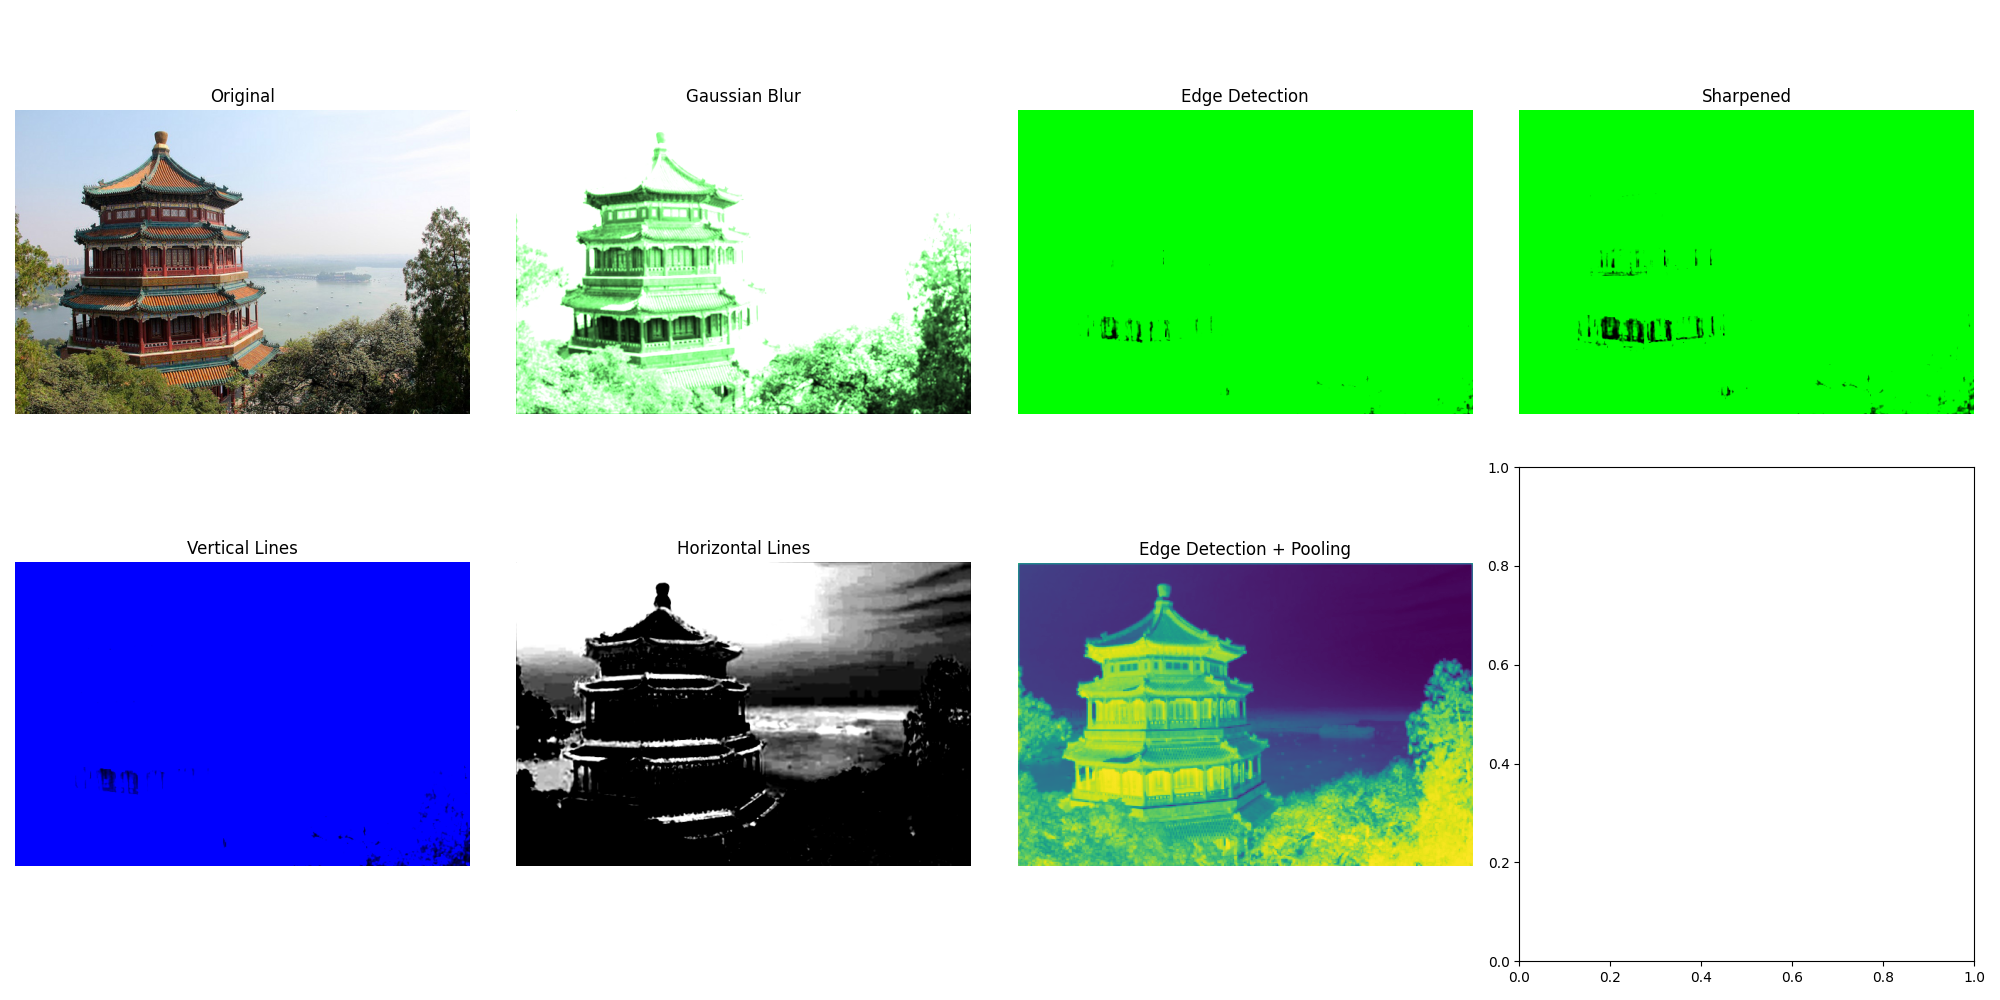
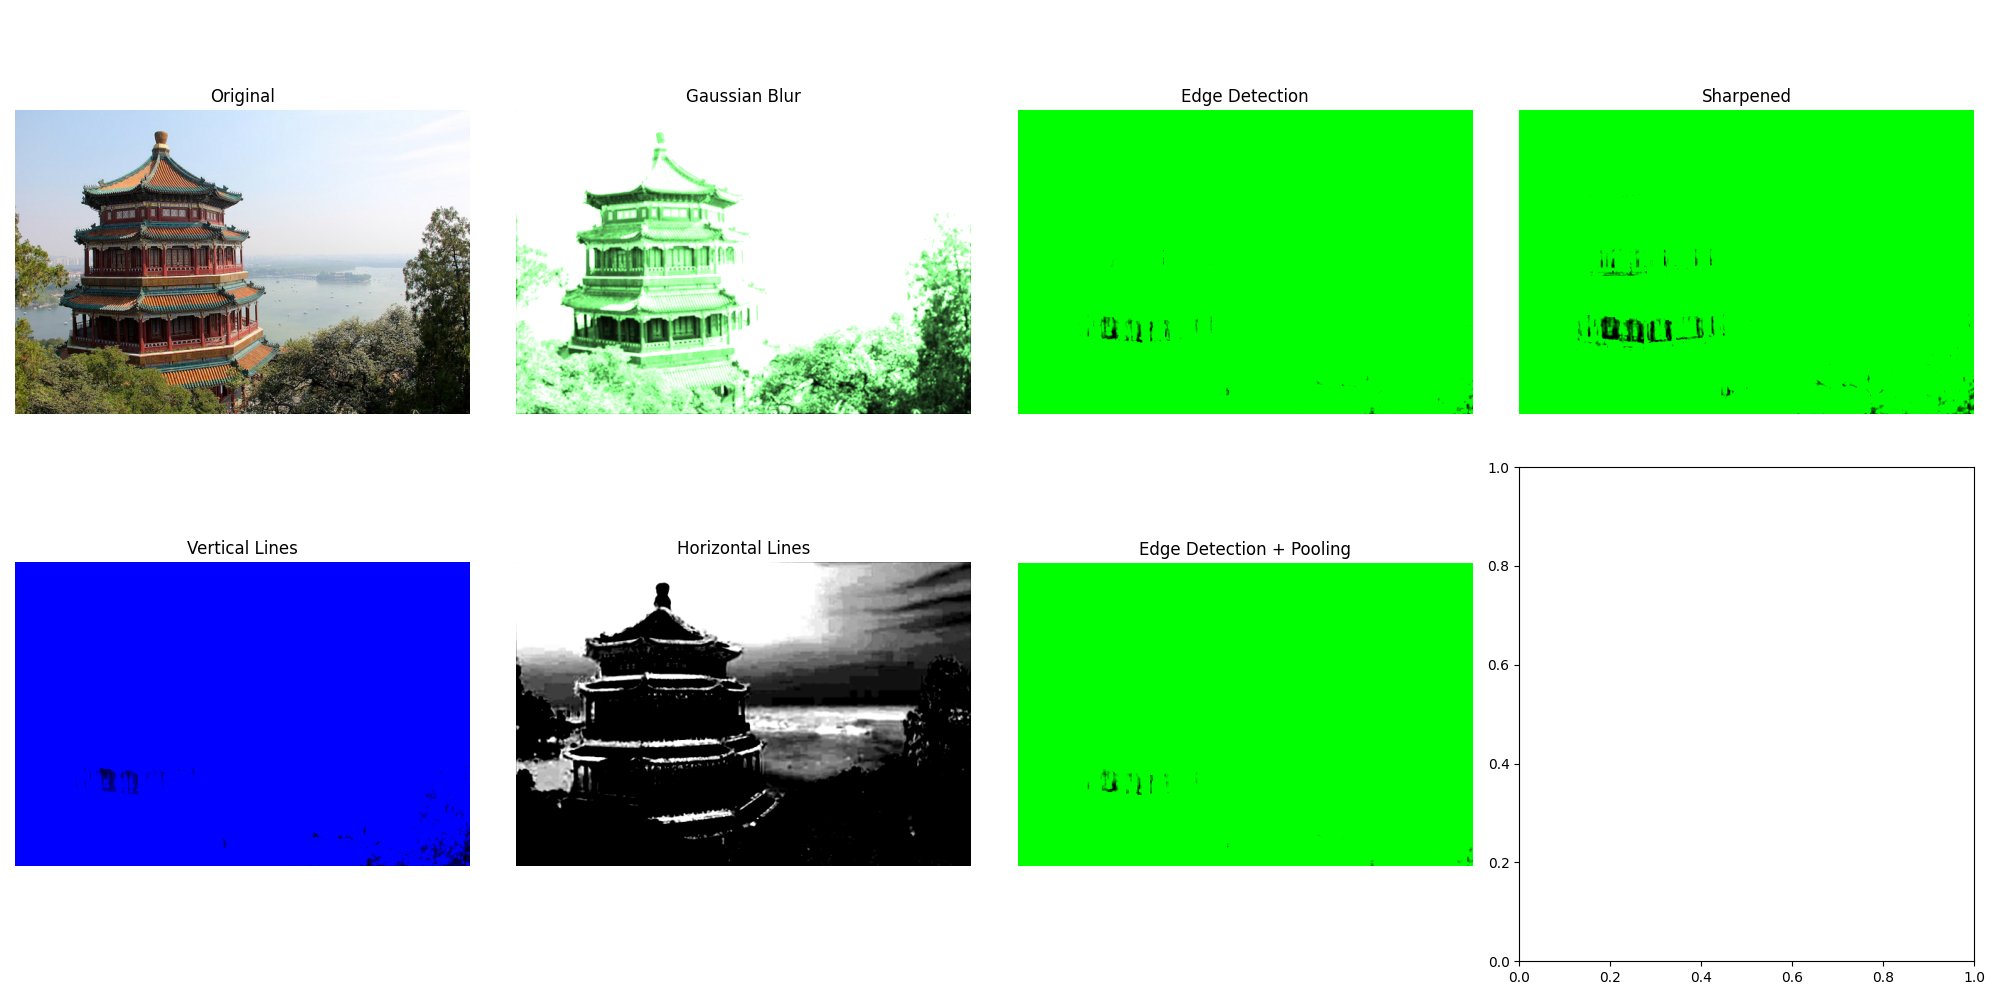
updated readme

Changed region(s): [[0.496, 0.558, 0.744, 0.868]]

diff --git a/Image_Convolution/Image-convolution.py b/Image_Convolution/Image-convolution.py
@@ -3,8 +3,6 @@ from tensorflow.keras.layers import Conv2D, MaxPooling2D
 from sklearn.datasets import load_sample_image
 import matplotlib.pyplot as plt
 import numpy as np
-import os
-os.environ['TF_CPP_MIN_LOG_LEVEL'] = '3'
 
 # Load a sample image
 china = load_sample_image("china.jpg")
@@ -13,14 +11,14 @@ china = np.array(china, dtype=np.float32) / 255.0
 # Reshape the image to add a batch dimension
 china = china.reshape((1,) + china.shape)
 
-# Create 2 filters
-# channels=3
-# filters = np.zeros(shape=(7, 7, channels, 2), dtype=np.float32)
-# filters[:, 3, :, 0] = 1 # vertical line
-# filters[3, :, :, 1] = 1 # horizontal line
+# This filter is to detect sharp edges
+kernel = np.array([[0, -1,  0],
+                    [-1, 5, -1],
+                    [0, -1,  0]])
 
 # Define the convolutional layer
-conv_layer = Conv2D(filters=32, kernel_size=3, strides=1, padding='same', activation='relu')
+conv_layer = Conv2D(filters=1, kernel_size=3, padding='same', use_bias=False, kernel_initializer=tf.keras.initializers.Constant(kernel))
+conv_output = conv_layer(china)
 
 # Define the pooling layer
 pool_layer = MaxPooling2D(pool_size=2, strides=2, padding='valid')
@@ -38,14 +36,16 @@ def show_images(images, titles):
         if img.shape[-1] == 1:
             img = np.squeeze(img) # Remove single-dimensional entries
         
-        axs[i].imshow(img)
+        # axs[i].imshow(img)  # color
+        axs[i].imshow(img, cmap='gray') # gray
+
         axs[i].set_title(title)
         axs[i].axis('off')
 
     plt.tight_layout()
-    plt.savefig("result.png")
+    plt.savefig("result-gray.png")
     plt.close()
 
 # Display results
-show_images([china[0], conv_output[0, :, :, 0], pool_output[0, :, :, 0]],
-            ['Original', 'After Convolution', 'After Pooling'])
+# show_images([china[0], conv_output[0], pool_output[0]], ['Original', 'After Convolution', 'After Pooling']) # color
+show_images([china[0], conv_output[0, :, :, 0], pool_output[0, :, :, 0]], ['Original', 'After Convolution', 'After Pooling']) # gray

diff --git a/Image_Convolution/convolution.py b/Image_Convolution/convolution.py
@@ -64,14 +64,14 @@ def show_images(images, titles):
             img = np.squeeze(img) # Remove single-dimensional entries
         
         row, col = i//cols,i%cols        
-        axs[row, col].imshow(img, cmap='gray')
+        axs[row, col].imshow(img)
         axs[row, col].set_title(title)
         axs[row, col].axis('off')
 
     plt.tight_layout()
-    plt.savefig("Custom-filters-gray.png")
+    plt.savefig("Custom-filters.png")
     plt.close()
 
 # Display results
-show_images([china[0], gaussian_output[0], edge_output[0], sharpen_output[0], vertical_output[0], horizontal_output[0], pool_output[0, :, :, 0]],
+show_images([china[0], gaussian_output[0], edge_output[0], sharpen_output[0], vertical_output[0], horizontal_output[0], pool_output[0]],
             ['Original', 'Gaussian Blur', 'Edge Detection', 'Sharpened', 'Vertical Lines', 'Horizontal Lines', 'Edge Detection + Pooling'])

diff --git a/Image_Convolution/README.md b/Image_Convolution/README.md
@@ -1,10 +1,12 @@
-# Image Convolution
+# Image Convolution 👨🏽
 
 In this project, we will create two small programs to compare different Image filters and Pooling methods.
 
+Image convolution is a image filtering technique. 
+
 # Convolution Layers
 
-### Convolution operation
+## Convolution operation 🥨
 
 Suppose we have N x N matrices A and B. We define $A \circ B$ as follows, where $\circ$ is the convolutional operator. 
 
@@ -12,37 +14,183 @@ $(A \circ B)_{i,j} = A_{i,j}B_{i,j}$
 
 The activation of a filter on an image of the same size is found by applying the convolutional operator to the filter and the image, then taking the sum of the entries in the resulting matrix, adding the filter's bias, and applying an activation function to it. 
 
-### Striding (to walk)
+Example:
 
-If we have a filter, we can apply it to a larger matrix (image) at a bunch of possible positions.
+```mermaid
+graph TD
+    subgraph Image
+    A[10 20 30 40<br>10 20 30 40<br>20 30 40 50<br>20 30 40 50]
+    end
+    subgraph Kernel
+    B[0 -1 0<br>-1 5 -1<br>0 -1 0]
+    end
+    C{Convolution}
+    subgraph Output
+    D[10 20<br>40 50]
+    end
+    A --> C
+    B --> C
+    C --> D
+```
 
-If we have an $N × N$  filter and an $M × M$ image, in how many positions can we apply the filter? $(M - N + 1)^2$
+Neurons in first convolutional layer are not connected to every single pixel in the input image 📸, but only to pixels in their **receptive fields**. This architecture allows the network to concentrate on small low-level features in the first hidden layer, then assemble them into larger higher-level features in the next hidden layer, and so on
 
-there will be (M-N+1) positions along both axes.
+![Fig: Connection between layers and zero padding](image-2.png)
 
-We can also skip spaces when striding by specifying the number of squares to move when shifting our filter.
+*Fig: Connection between layers and zero padding*
 
-Then number of positions would be = $(\frac {W - N}{S} + 1) * (\frac {H - N}{S} + 1)$
+$(i, j)$ neuron of a given layer is connected to $(i, i+f_h-1) * (j, j+f_w-1)$ neurons of previous layer.
 
-**Padding**
+where, $f_h, f_w$ are height and width of filter
+
+Size of the resultant feature map = $(H - f_h + 1)*(W - f_w + 1)$
+
+where,
+
+$H, W$ are height and width of image
+
+### Filters 🎞
+
+The most commonly used kernel in image convolution is the Gaussian kernel, which is used to smooth images and reduce noise. Other kernels are used for different purposes, such as edge detection or feature extraction.
+
+#### Gaussian Kernel 🧈
+
+**Gaussian kernel** is a kernel used in image processing to smooth images and reduce noise. It is a matrix of weights or coefficients, with the center weight being the highest and the weights decreasing as we move away from the center. 
+
+The weights are calculated using a Gaussian distribution, which is a bell curve that assigns higher weights to the pixels closer to the center and lower weights to the pixels farther away from the center. 
+
+An example of a 3x3 Gaussian kernel is:
+
+| 1 | 2 | 1 |
+| --- | --- | --- |
+| 2 | 4 | 2 |
+| 1 | 2 | 1 |
+
+This kernel can be normalized by dividing each element by the sum of all the elements in the kernel, which is 16 in this case.
+
+## Striding (to walk) 🚶🏽➡
+
+
+It is also possible to connect a large input layer to a much smaller layer by spacing out the receptive fields. The shift from one receptive field to the next is called the stride.
+
+$(i, j)$ neuron is connected to $(i*s_h, i*s_h + f_h - 1) * (j*s_w, j*s_w + f_w - 1)$
+
+$s_h, s_w$ are vertical and horizontal strides.
+
+
+![Fig: Reducing dimensionality using a stride of 2](image-3.png)
+
+*Fig: Reducing dimensionality using a stride of 2*
+
+Size of resultant feature map = $(\frac {W - f_w}{S_w} + 1) * (\frac {H - f_h}{S_h} + 1)$
+
+## Padding 🏓
 
 We pad the image on sides so that we can catch partial objects.
 
-![Fig: applied p=1 on image](https://prod-files-secure.s3.us-west-2.amazonaws.com/5989232b-4798-4c63-ac9f-04cb2f5fb1a8/13d81d66-83ce-43aa-8a5d-83af193b8667/Untitled.png)
+![Fig: applied p=1 on image](image.png)
 
-Fig: applied p=1 on image
+*Fig: applied p=1 on "+" sign*
 
-What will be the dimensions of the feature map for a filter with size $N × N$ applied to an image with size $W × H$ with padding P and stride length S?
+Dimensions of feature map or number of positions, after applying filter with padding P: 
 
-Dimensions of feature map or number of positions, where we apply our filter: 
+$(\frac {W - f_w + 2P}{S_w} + 1) * (\frac {H - f_h + 2P}{S_h} + 1)$
 
-$(\frac {W - N + 2P}{S} + 1) * (\frac {H - N + 2P}{S} + 1)$
+```python
+# This will set filters as trainable variables
+conv = keras.layers.Conv2D(filter=32, kernel_size=3, strides=1,padding="same", activation="relu")
 
-**Using multiple convolutional step**
+# Provide custom filters
+gaussian_blur = np.array([[1, 2, 1],
+                          [2, 4, 2],
+                          [1, 2, 1]]) / 16.0
+conv_gaussian = Conv2D(filters=1, kernel_size=3, padding='same', use_bias=False, kernel_initializer=tf.keras.initializers.Constant(gaussian_blur))
 
-![Fig: Feature matrix at first step](https://prod-files-secure.s3.us-west-2.amazonaws.com/5989232b-4798-4c63-ac9f-04cb2f5fb1a8/baddf158-0733-46c9-858b-fcdf0f98e6d3/Untitled.png)
+# Padding:
+# same: the convolutional layers uses zero padding if necessary
+# valid: the convolutional layers may ignore some rows and columns at the bottom and right of the input image.
+```
 
-Fig: Feature matrix at first step
+![Convolution and Pooling result](./result-color.png)
+
+*Fig: Convolution (sharpen filter used) and pooling result*
+
+# Pooling Layers 🎱
+
+**Pooling** is a technique used in computer vision and image processing to down sample an image or feature map by applying a function, such as max or average pooling, to non-overlapping blocks of the input (Using striding).
+
+Pooling helps to reduce the spatial dimensions of the input, which can reduce the computational requirements of subsequent layers in the network and help to prevent overfitting.
+
+Pooling is commonly used in convolutional neural networks (CNNs) for image classification and other computer vision tasks.
+
+![Fig: Max pooling layer (2 × 2 pooling kernel, stride 2, no padding)](image-4.png)
+
+*Fig: Max pooling layer (2 × 2 pooling kernel, stride 2, no padding)*
+
+**Example →** *Suppose that kernel size is $3x3$, and our stride is $S=2$.  If we have a $45×25$ input image, what will be the number of datapoints in the down sampled image after applying this pooling operation?* 
+
+**Solution →** Using our formula, we will have 
+$(\frac{45−3}{2}+1)(\frac{25−3}{2}+1)=264$ samples from the image. 
+3x3 block replaced with 1x1 block. So total, 264 data points.
+If we consider depth of pixel (3) ⇒ 3 layer will have = 3 x 264 = 792 datapoints
+
+## Types of Pooling layers 🥪
+
+Most commonly used pooling layers are max and average pooling as explained below.
+
+### 1. Max Pooling Ⓜ
+
+**Max pooling** is a pooling operation that outputs the maximum value within each non-overlapping block of the input.
+
+Max pooling helps to reduce the spatial dimensions of the input and can help to prevent overfitting by reducing the number of parameters in the model.
+
+Max pooling is generally used over average pooling since it has performed better in experiments.
+
+Example →
+
+![Fig: Max pooling (Source: [Papers with code](https://paperswithcode.com/method/max-pooling))](image-5.png)
+
+*Fig: Max pooling (Source: [Papers with code](https://paperswithcode.com/method/max-pooling))*
+
+A max pooling layer also introduces some level of invariance to small translations. But in some applications invariance is not desirable like semantic segmentation.
+
+![Fig: Invariance to small translations](image-6.png)
+
+*Fig: Invariance to small translations*
+
+```python
+max_pool = keras.layers.MaxPool2D(pool_size=2)
+```
+
+Max pooling performs better than average pooling because:
+
+- max pooling preserves only the strongest features, getting rid of all the meaningless ones
+- offers stronger translation invariance
+- Requires less compute
+
+### 2. Average Pooling 🅰
+
+**Average pooling** is a pooling operation that outputs the average value within each non-overlapping block of the input.
+
+Average pooling helps to reduce the spatial dimensions of the input and can help to prevent overfitting by reducing the number of parameters in the model.
+
+Example →
+
+![Fig: Average Pooling (Source: [Papers with code](https://paperswithcode.com/method/average-pooling))](image-7.png)
+
+*Fig: Average Pooling (Source: [Papers with code](https://paperswithcode.com/method/average-pooling))*
+
+Global average pooling layer: It compute the mean of each entire feature map.
+
+```python
+global_avg_pool = keras.layers.GlobalAvgPool2D()
+```
+
+# Using multiple convolutional step 🪜
+
+![Fig: Feature matrix at first step](image-1.png)
+
+*Fig: Feature matrix at first step*
 
 When actually creating a CNN, we will want to have multiple filters to recognize different features at each convolutional step.
 
@@ -50,60 +198,9 @@ This means that our output matrix has a **volume**: if we have K $N × N$ filter
 
 So, if we want to use another convolution on the matrix with depth K above, we will need to use filters that also have depth K.
 
-Example → 
+## Troubleshooting 🌠
 
-First step: we have applied three $5 × 5$ filters to a $99 × 99$ image with a stride of 1 and padding of 3, and gotten a matrix M1 (size = 101 x 101 x 3). Using above formula
-
-Suppose that we want to apply another convolution to M1 with a stride of 2 and padding of 5, and we want the dimensions of this output matrix M2 to be $50 × 50 × 6$.
-
-**Solution:** 
-
-old depth = 3, old size = 101 x 101
-
-Since, new depth = 6 hence filters = 6
-
-using $(\frac{101−x+2⋅5}{2}+1)=50$ ⇒ $x = 13$
-
-(size = 13 x 13 x 3)
-
-Image convolution is a image filtering technique. 
-
-Neurons in first convolutional layer are not connected to every single pixel in the input image, but only to pixels in their receptive fields. This architecture allows the network to concentrate on small low-level features in the first hidden layer, then assemble them into larger higher-level features in the next hidden layer, and so on
-
-![Fig: Connection between layers and zero padding](https://prod-files-secure.s3.us-west-2.amazonaws.com/5989232b-4798-4c63-ac9f-04cb2f5fb1a8/b3f2c3a2-e090-4a8f-bba9-69dfccbd785f/Untitled.png)
-
-Fig: Connection between layers and zero padding
-
-(i, j) neuron of a given layer is connected to $(i, i+f_h-1) * (j, j+f_w-1)$ neurons of previous layer.
-
-It is also possible to connect a large input layer to a much smaller layer by spacing out the receptive fields. The shift from one receptive field to the next is called the stride.
-
-(i, j) neuron is connected to $(i*s_h, i*s_h + f_h - 1) * (j*s_w, j*s_w + f_w - 1)$
-
-$s_h, s_w$ are vertical and horizontal strides.
-
-![Fig: Reducing dimensionality using a stride of 2](https://prod-files-secure.s3.us-west-2.amazonaws.com/5989232b-4798-4c63-ac9f-04cb2f5fb1a8/1fae4261-4400-441b-8886-45e8c6ea4f4b/Untitled.png)
-
-Fig: Reducing dimensionality using a stride of 2
-
-Stacked convolutional layers
-
-$z_{i,j,k} = b_k + \sum_{u=0}^{f_h-1}\sum_{v=0}^{f_w - 1}\sum_{k'=0}^{f_{n'}-1}x_{i',j',k'}.w_{u,v,k',k}$
-
-$i’ = i*s_h + u$
-
-$j’=j*s_w + v$
-
-You can also define filters as trainable variables:
-
-```python
-conv = keras.layers.Conv2D(filter=32, kernel_size=3, strides=1, 
-													padding="same", activation="relu")
-```
-
-A CNN layer contains many kernels.
-
-## Troubleshooting
+### Installed Tensorflow but Cuda is not set
 
 ```
 2024-10-20 12:35:17.323136: I tensorflow/core/util/port.cc:153] oneDNN custom operations are on. You may see slightly different numerical results due to floating-point round-off errors from different computation orders. To turn them off, set the environment variable `TF_ENABLE_ONEDNN_OPTS=0`.
@@ -134,3 +231,8 @@ export TF_CPP_MIN_LOG_LEVEL=0
 import os
 os.environ['TF_CPP_MIN_LOG_LEVEL'] = '0'
 ```
+
+## References
+
+1. Hands-On Machine Learning with Scikit-Learn, Keras, and TensorFlow [Buy here](https://www.oreilly.com/library/view/hands-on-machine-learning/9781098125967/)
+2. Brilliant.org
